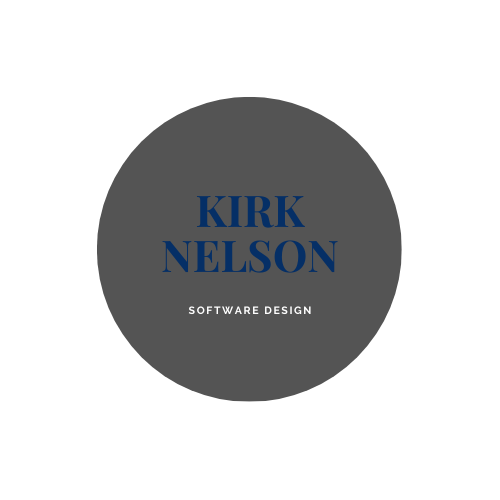
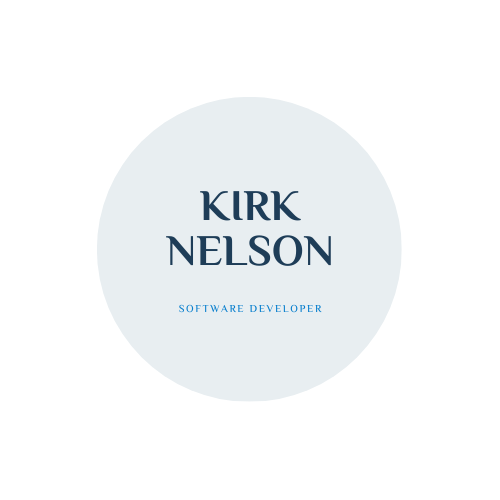
adjusted portfolio section: color scheme, text overlay effects and position, cleaned up HTML

Changed region(s): [[0.18, 0.18, 0.81, 0.81]]

diff --git a/index.html b/index.html
@@ -68,56 +68,68 @@
                 <br>
                 <br>
                 <br>
-                <center>
-                    <div class="row">
-                        <div>
-                            <div class="column">
-                                <div class="container">
-                                        <div><img src="images/Kirk Nelson.png" alt=brand style="width: 100%"></div>
-                                      <div class="centered">
+                <div class="row">
+                    <div class="column">
+                        <div class="container">
+                            <div><img src="images/Kirk Nelson.png" alt=brand class="image"></a></div>
+                            <div class="overlay">
+                                <a href="https://github.com/Mr-Nelson/Day_Trip_Generator">
+                                    <div class="text">
                                         <div>Project Name</div>
                                         <div>Description</div>
                                         <div>Language Used</div>
-                                      </div>
                                     </div>
+                                </a>
+                            </div>
                             </div>
                         </div>
-                        <div>
-                            <div class="column">
-                                <div class="container">
-                                        <div><img src="images/Kirk Nelson.png" alt=brand style="width: 100%"></div>
-                                      <div class="centered">
+                    </div>
+                    <div class="column">
+                        <div class="container">
+                            <div><img src="images/Kirk Nelson.png" alt=brand class="image"></a></div>
+                            <div class="overlay">
+                                <a href="https://github.com/Mr-Nelson/Day_Trip_Generator">
+                                    <div class="text">
                                         <div>Project Name</div>
                                         <div>Description</div>
                                         <div>Language Used</div>
-                                      </div>
                                     </div>
+                                </a>
                             </div>
-                        </div>                       <div>
-                            <div class="column">
-                                <div class="container">
-                                        <div><img src="images/Kirk Nelson.png" alt=brand style="width: 100%"></div>
-                                      <div class="centered">
-                                        <div>Project Name</div>
-                                        <div>Description</div>
-                                        <div>Language Used</div>
-                                      </div>
-                                    </div>
-                            </div>
-                        </div>                       <div>
-                            <div class="column">
-                                <div class="container">
-                                        <div><img src="images/Kirk Nelson.png" alt=brand style="width: 100%"></div>
-                                      <div class="centered">
-                                        <div>Project Name</div>
-                                        <div>Description</div>
-                                        <div>Language Used</div>
-                                      </div>
-                                    </div>
                             </div>
                         </div>
-                    </div> 
-                </center>
+                    </div>
+                    <div class="column">
+                        <div class="container">
+                            <div><img src="images/Kirk Nelson.png" alt=brand class="image"></a></div>
+                            <div class="overlay">
+                                <a href="https://github.com/Mr-Nelson/Day_Trip_Generator">
+                                    <div class="text">
+                                        <div>Project Name</div>
+                                        <div>Description</div>
+                                        <div>Language Used</div>
+                                    </div>
+                                </a>
+                            </div>
+                            </div>
+                        </div>
+                    </div>
+                    <div class="column">
+                        <div class="container">
+                            <div><img src="images/Kirk Nelson.png" alt=brand class="image"></a></div>
+                            <div class="overlay">
+                                <a href="https://github.com/Mr-Nelson/Day_Trip_Generator">
+                                    <div class="text">
+                                        <div>Project Name</div>
+                                        <div>Description</div>
+                                        <div>Language Used</div>
+                                    </div>
+                                </a>
+                            </div>
+                            </div>
+                        </div>
+                    </div>
+                </div>     
             </div>
         </section>
         <br>

diff --git a/styles.css b/styles.css
@@ -35,16 +35,45 @@
     .row::after {
         content: "";
         clear: both;
-        display: table;
+        display:-ms-inline-flexbox;
     }
     .container {
         position: relative;
-        text-align: center;
-        color: white;
-    }
-    .centered {
+        width: 100%;
+}
+
+    .image {
+        display: square;
+        width: 100%;
+        height: auto;
+}
+
+      .overlay {
+        border-radius: 50%;
+        position: absolute;
+        top: 19%;
+        bottom: 0;
+        left: 19%;
+        right: 0;
+        height: 61%;
+        width: 61%;
+        opacity: 0;
+        transition: .5s ease;
+        background-color: #1E3D58;
+      }
+      
+      .container:hover .overlay {
+        opacity: 1;
+      }
+      
+      .text {
+        color: #E8EEF1;
+        font-size: 20px;
         position: absolute;
         top: 50%;
         left: 50%;
+        -webkit-transform: translate(-50%, -50%);
+        -ms-transform: translate(-50%, -50%);
         transform: translate(-50%, -50%);
+        text-align: center;
       }
